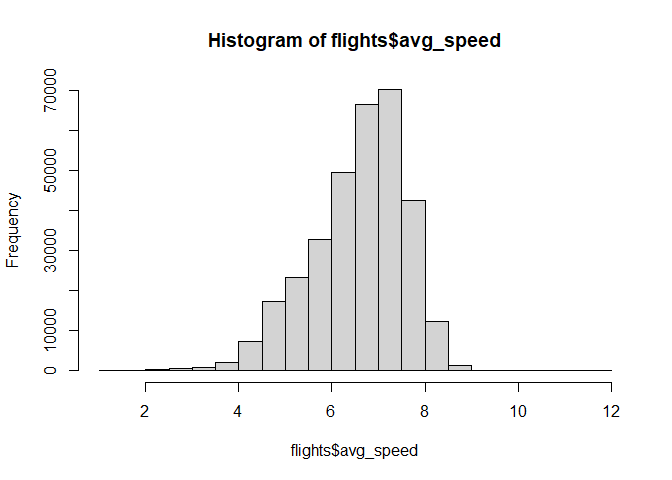
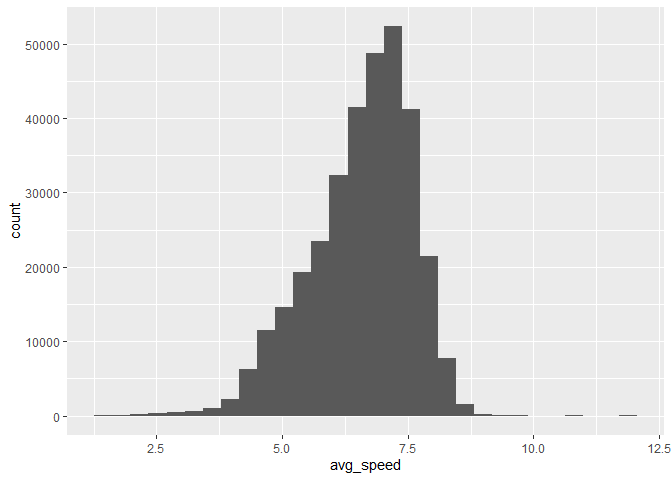
Homeworks

diff --git a/Homework_5.md b/Homework_5.md
@@ -1,0 +1,200 @@
+# Homework_5
+
+## Question 1
+
+``` r
+library(tidyverse)
+students <- read_csv("data/r4ds_main_data_students.csv")
+students <- read_csv("data/r4ds_main_data_students.csv", na = c("N/A",""))
+glimpse(students)
+```
+
+    Rows: 6
+    Columns: 5
+    $ `Student ID`   <dbl> 1, 2, 3, 4, 5, 6
+    $ `Full Name`    <chr> "Sunil Huffmann", "Barclay Lynn", "Jayendra Lyne", "Leo…
+    $ favourite.food <chr> "Strawberry yoghurt", "French fries", NA, "Anchovies", …
+    $ mealPlan       <chr> "Lunch only", "Lunch only", "Breakfast and lunch", "Lun…
+    $ AGE            <chr> "4", "5", "7", NA, "five", "6"
+
+``` r
+students |> 
+  rename(student_id = 'Student ID',
+         full_name = 'Full Name')
+```
+
+    # A tibble: 6 × 5
+      student_id full_name        favourite.food     mealPlan            AGE  
+           <dbl> <chr>            <chr>              <chr>               <chr>
+    1          1 Sunil Huffmann   Strawberry yoghurt Lunch only          4    
+    2          2 Barclay Lynn     French fries       Lunch only          5    
+    3          3 Jayendra Lyne    <NA>               Breakfast and lunch 7    
+    4          4 Leon Rossini     Anchovies          Lunch only          <NA> 
+    5          5 Chidiegwu Dunkel Pizza              Breakfast and lunch five 
+    6          6 Güvenç Attila    Ice cream          Lunch only          6    
+
+``` r
+students |> mutate(mealPlan = factor(mealPlan))
+```
+
+    # A tibble: 6 × 5
+      `Student ID` `Full Name`      favourite.food     mealPlan            AGE  
+             <dbl> <chr>            <chr>              <fct>               <chr>
+    1            1 Sunil Huffmann   Strawberry yoghurt Lunch only          4    
+    2            2 Barclay Lynn     French fries       Lunch only          5    
+    3            3 Jayendra Lyne    <NA>               Breakfast and lunch 7    
+    4            4 Leon Rossini     Anchovies          Lunch only          <NA> 
+    5            5 Chidiegwu Dunkel Pizza              Breakfast and lunch five 
+    6            6 Güvenç Attila    Ice cream          Lunch only          6    
+
+``` r
+students |> mutate(AGE = parse_number(if_else(AGE == "five", "5", AGE)))
+```
+
+    # A tibble: 6 × 5
+      `Student ID` `Full Name`      favourite.food     mealPlan              AGE
+             <dbl> <chr>            <chr>              <chr>               <dbl>
+    1            1 Sunil Huffmann   Strawberry yoghurt Lunch only              4
+    2            2 Barclay Lynn     French fries       Lunch only              5
+    3            3 Jayendra Lyne    <NA>               Breakfast and lunch     7
+    4            4 Leon Rossini     Anchovies          Lunch only             NA
+    5            5 Chidiegwu Dunkel Pizza              Breakfast and lunch     5
+    6            6 Güvenç Attila    Ice cream          Lunch only              6
+
+## Question 2
+
+``` r
+Employee <- read_csv("data/Employee data.csv")
+view(Employee)
+glimpse(Employee)
+```
+
+    Rows: 474
+    Columns: 10
+    $ id       <dbl> 1, 2, 3, 4, 5, 6, 7, 8, 9, 10, 11, 12, 13, 14, 15, 16, 17, 18…
+    $ gender   <chr> "m", "m", "f", "f", "m", "m", "m", "f", "f", "f", "f", "m", "…
+    $ bdate    <chr> "2/3/1952", "5/23/1958", "7/26/1929", "4/15/1947", "2/9/1955"…
+    $ educ     <dbl> 15, 16, 12, 8, 15, 15, 15, 12, 15, 12, 16, 8, 15, 15, 12, 12,…
+    $ jobcat   <dbl> 3, 1, 1, 1, 1, 1, 1, 1, 1, 1, 1, 1, 1, 1, 1, 1, 1, 3, 1, 1, 1…
+    $ salary   <dbl> 57000, 40200, 21450, 21900, 45000, 32100, 36000, 21900, 27900…
+    $ salbegin <dbl> 27000, 18750, 12000, 13200, 21000, 13500, 18750, 9750, 12750,…
+    $ jobtime  <dbl> 98, 98, 98, 98, 98, 98, 98, 98, 98, 98, 98, 98, 98, 98, 97, 9…
+    $ prevexp  <dbl> 144, 36, 381, 190, 138, 67, 114, 0, 115, 244, 143, 26, 34, 13…
+    $ minority <dbl> 0, 0, 0, 0, 0, 0, 0, 0, 0, 0, 0, 1, 1, 1, 0, 0, 0, 0, 0, 0, 0…
+
+``` r
+Employee |> 
+  rename(Birth_date = 'bdate',
+         job_category = 'jobcat',
+         sal_begin = 'salbegin',
+         job_time = 'jobtime',
+         previous_exp = 'prevexp')
+```
+
+    # A tibble: 474 × 10
+          id gender Birth_date  educ job_category salary sal_begin job_time
+       <dbl> <chr>  <chr>      <dbl>        <dbl>  <dbl>     <dbl>    <dbl>
+     1     1 m      2/3/1952      15            3  57000     27000       98
+     2     2 m      5/23/1958     16            1  40200     18750       98
+     3     3 f      7/26/1929     12            1  21450     12000       98
+     4     4 f      4/15/1947      8            1  21900     13200       98
+     5     5 m      2/9/1955      15            1  45000     21000       98
+     6     6 m      8/22/1958     15            1  32100     13500       98
+     7     7 m      4/26/1956     15            1  36000     18750       98
+     8     8 f      5/6/1966      12            1  21900      9750       98
+     9     9 f      1/23/1946     15            1  27900     12750       98
+    10    10 f      2/13/1946     12            1  24000     13500       98
+    # ℹ 464 more rows
+    # ℹ 2 more variables: previous_exp <dbl>, minority <dbl>
+
+``` r
+Employee |> mutate(gender = factor(gender))
+```
+
+    # A tibble: 474 × 10
+          id gender bdate      educ jobcat salary salbegin jobtime prevexp minority
+       <dbl> <fct>  <chr>     <dbl>  <dbl>  <dbl>    <dbl>   <dbl>   <dbl>    <dbl>
+     1     1 m      2/3/1952     15      3  57000    27000      98     144        0
+     2     2 m      5/23/1958    16      1  40200    18750      98      36        0
+     3     3 f      7/26/1929    12      1  21450    12000      98     381        0
+     4     4 f      4/15/1947     8      1  21900    13200      98     190        0
+     5     5 m      2/9/1955     15      1  45000    21000      98     138        0
+     6     6 m      8/22/1958    15      1  32100    13500      98      67        0
+     7     7 m      4/26/1956    15      1  36000    18750      98     114        0
+     8     8 f      5/6/1966     12      1  21900     9750      98       0        0
+     9     9 f      1/23/1946    15      1  27900    12750      98     115        0
+    10    10 f      2/13/1946    12      1  24000    13500      98     244        0
+    # ℹ 464 more rows
+
+## Question 3a
+
+``` r
+read_csv("data/colloquium_assessment.csv")
+```
+
+    # A tibble: 36 × 25
+       StartDate             EndDate Status Progress Duration (in seconds…¹ Finished
+       <chr>                 <chr>   <chr>  <chr>    <chr>                  <chr>   
+     1  <NA>                  <NA>    <NA>   <NA>     <NA>                   <NA>   
+     2 "Start Date"          "End D… "Resp… "Progre… "Duration (in seconds… "Finish…
+     3  <NA>                  <NA>    <NA>   <NA>     <NA>                   <NA>   
+     4 "{\"ImportId\":\"sta… "{\"Im… "{\"I… "{\"Imp… "{\"ImportId\":\"dura… "{\"Imp…
+     5  <NA>                  <NA>    <NA>   <NA>     <NA>                   <NA>   
+     6 "11/11/22 9:01"       "11/11… "0"    "100"    "18"                   "1"     
+     7  <NA>                  <NA>    <NA>   <NA>     <NA>                   <NA>   
+     8 "11/11/22 9:02"       "11/11… "0"    "100"    "31"                   "1"     
+     9  <NA>                  <NA>    <NA>   <NA>     <NA>                   <NA>   
+    10 "11/11/22 9:03"       "11/11… "0"    "100"    "109"                  "1"     
+    # ℹ 26 more rows
+    # ℹ abbreviated name: ¹`Duration (in seconds)`
+    # ℹ 19 more variables: RecordedDate <chr>, ResponseId <chr>,
+    #   RecipientLastName <chr>, RecipientFirstName <chr>, RecipientEmail <chr>,
+    #   ExternalReference <chr>, LocationLatitude <chr>, LocationLongitude <chr>,
+    #   DistributionChannel <chr>, UserLanguage <chr>, Q4 <chr>, Q5 <chr>,
+    #   Q6 <chr>, Q7 <chr>, Q8 <chr>, Q9 <chr>, Q10 <chr>, Q11 <chr>, Q12 <chr>
+
+``` r
+header <- read_csv("data/colloquium_assessment.csv", n_max = 1)
+Colloquium <- read_csv("data/colloquium_assessment.csv", skip = 5, col_names = FALSE)
+names(Colloquium) <- names(header)
+colloquium_no_na<- na.omit(Colloquium)
+Colloquium <- Colloquium |>
+  filter(!is.na(Colloquium[[1]]))|>
+  rename(duration_in_seconds = 'Duration (in seconds)')
+Colloquium |> 
+  pivot_longer(cols = LocationLatitude:LocationLongitude,
+               names_to = "Location", 
+               values_to = "value")
+```
+
+    # A tibble: 32 × 25
+       StartDate   EndDate Status Progress duration_in_seconds Finished RecordedDate
+       <chr>       <chr>    <dbl>    <dbl>               <dbl>    <dbl> <chr>       
+     1 11/11/22 9… 11/11/…      0      100                  18        1 11/11/22 9:…
+     2 11/11/22 9… 11/11/…      0      100                  18        1 11/11/22 9:…
+     3 11/11/22 9… 11/11/…      0      100                  31        1 11/11/22 9:…
+     4 11/11/22 9… 11/11/…      0      100                  31        1 11/11/22 9:…
+     5 11/11/22 9… 11/11/…      0      100                 109        1 11/11/22 9:…
+     6 11/11/22 9… 11/11/…      0      100                 109        1 11/11/22 9:…
+     7 11/11/22 9… 11/11/…      0      100                  40        1 11/11/22 9:…
+     8 11/11/22 9… 11/11/…      0      100                  40        1 11/11/22 9:…
+     9 11/11/22 9… 11/11/…      0      100                 243        1 11/11/22 9:…
+    10 11/11/22 9… 11/11/…      0      100                 243        1 11/11/22 9:…
+    # ℹ 22 more rows
+    # ℹ 18 more variables: ResponseId <chr>, RecipientLastName <lgl>,
+    #   RecipientFirstName <lgl>, RecipientEmail <lgl>, ExternalReference <lgl>,
+    #   DistributionChannel <chr>, UserLanguage <chr>, Q4 <dbl>, Q5 <dbl>,
+    #   Q6 <dbl>, Q7 <dbl>, Q8 <dbl>, Q9 <dbl>, Q10 <dbl>, Q11 <dbl>, Q12 <chr>,
+    #   Location <chr>, value <dbl>
+
+## Question 3b
+
+``` r
+Colloquium |>
+  summarise(Mean_Q7 = mean(Q7, na.rm = TRUE), Mean_Q8 = mean(Q8, na.rm = TRUE), Mean_Q9 = mean(Q9, na.rm = TRUE), Mean_Q10 = mean(Q10, na.rm = TRUE))
+```
+
+    # A tibble: 1 × 4
+      Mean_Q7 Mean_Q8 Mean_Q9 Mean_Q10
+        <dbl>   <dbl>   <dbl>    <dbl>
+    1     4.5    4.62    4.31     4.44

diff --git a/hmk_04_data_frames.md b/hmk_04_data_frames.md
@@ -20,25 +20,31 @@ of R), but needs to be loaded every time we start a new R session.
 
 ``` r
 library(tidyverse)
-```
-
-    ── Attaching core tidyverse packages ──────────────────────── tidyverse 2.0.0 ──
-    ✔ dplyr     1.1.3     ✔ readr     2.1.4
-    ✔ forcats   1.0.0     ✔ stringr   1.5.0
-    ✔ ggplot2   3.4.3     ✔ tibble    3.2.1
-    ✔ lubridate 1.9.2     ✔ tidyr     1.3.0
-    ✔ purrr     1.0.2     
-    ── Conflicts ────────────────────────────────────────── tidyverse_conflicts() ──
-    ✖ dplyr::filter() masks stats::filter()
-    ✖ dplyr::lag()    masks stats::lag()
-    ℹ Use the conflicted package (<http://conflicted.r-lib.org/>) to force all conflicts to become errors
-
-``` r
 library("nycflights13")
-glimpse("nycflights13")
+glimpse(flights)
 ```
 
-     chr "nycflights13"
+    Rows: 336,776
+    Columns: 19
+    $ year           <int> 2013, 2013, 2013, 2013, 2013, 2013, 2013, 2013, 2013, 2…
+    $ month          <int> 1, 1, 1, 1, 1, 1, 1, 1, 1, 1, 1, 1, 1, 1, 1, 1, 1, 1, 1…
+    $ day            <int> 1, 1, 1, 1, 1, 1, 1, 1, 1, 1, 1, 1, 1, 1, 1, 1, 1, 1, 1…
+    $ dep_time       <int> 517, 533, 542, 544, 554, 554, 555, 557, 557, 558, 558, …
+    $ sched_dep_time <int> 515, 529, 540, 545, 600, 558, 600, 600, 600, 600, 600, …
+    $ dep_delay      <dbl> 2, 4, 2, -1, -6, -4, -5, -3, -3, -2, -2, -2, -2, -2, -1…
+    $ arr_time       <int> 830, 850, 923, 1004, 812, 740, 913, 709, 838, 753, 849,…
+    $ sched_arr_time <int> 819, 830, 850, 1022, 837, 728, 854, 723, 846, 745, 851,…
+    $ arr_delay      <dbl> 11, 20, 33, -18, -25, 12, 19, -14, -8, 8, -2, -3, 7, -1…
+    $ carrier        <chr> "UA", "UA", "AA", "B6", "DL", "UA", "B6", "EV", "B6", "…
+    $ flight         <int> 1545, 1714, 1141, 725, 461, 1696, 507, 5708, 79, 301, 4…
+    $ tailnum        <chr> "N14228", "N24211", "N619AA", "N804JB", "N668DN", "N394…
+    $ origin         <chr> "EWR", "LGA", "JFK", "JFK", "LGA", "EWR", "EWR", "LGA",…
+    $ dest           <chr> "IAH", "IAH", "MIA", "BQN", "ATL", "ORD", "FLL", "IAD",…
+    $ air_time       <dbl> 227, 227, 160, 183, 116, 150, 158, 53, 140, 138, 149, 1…
+    $ distance       <dbl> 1400, 1416, 1089, 1576, 762, 719, 1065, 229, 944, 733, …
+    $ hour           <dbl> 5, 5, 5, 5, 6, 5, 6, 6, 6, 6, 6, 6, 6, 6, 6, 5, 6, 6, 6…
+    $ minute         <dbl> 15, 29, 40, 45, 0, 58, 0, 0, 0, 0, 0, 0, 0, 0, 0, 59, 0…
+    $ time_hour      <dttm> 2013-01-01 05:00:00, 2013-01-01 05:00:00, 2013-01-01 0…
 
 # Question 1: filtering
 
@@ -56,11 +62,8 @@ criteria:
 hmk4 <- flights |> filter(origin == "LGA", day == 16 & distance <=2000)
 
 ggplot (data = hmk4, mapping = aes(x = distance , y = air_time,)) +
-  
-  geom_point()
+   geom_point()
 ```
-
-    Warning: Removed 75 rows containing missing values (`geom_point()`).
 
 ![](hmk_04_data_frames_files/figure-commonmark/unnamed-chunk-2-1.png)
 
@@ -113,7 +116,7 @@ flights |> mutate(speed = distance / air_time)
     #   distance <dbl>, hour <dbl>, minute <dbl>, time_hour <dttm>, speed <dbl>
 
 ``` r
-hist(flights$avg_speed)
+ggplot(flights, aes(x= avg_speed)) + geom_histogram()
 ```
 
 ![](hmk_04_data_frames_files/figure-commonmark/unnamed-chunk-4-1.png)
